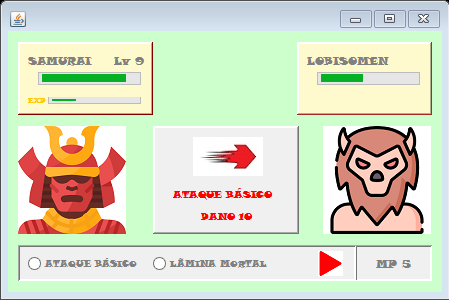
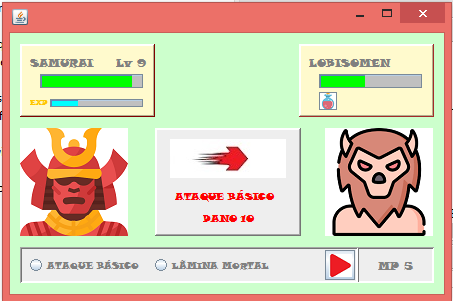
Criação da tela de escolha de personagem

diff --git a/src/Swing/Personagem.java b/src/Swing/Personagem.java
@@ -1,0 +1,192 @@
+package Swing;
+
+import java.awt.EventQueue;
+
+import javax.swing.JFrame;
+import javax.swing.JPanel;
+import javax.swing.border.EmptyBorder;
+import java.awt.Font;
+import javax.swing.JLabel;
+import java.awt.Color;
+import javax.swing.JComboBox;
+import javax.swing.SwingConstants;
+import javax.swing.ImageIcon;
+import javax.swing.border.LineBorder;
+import javax.swing.border.BevelBorder;
+import javax.swing.JButton;
+
+public class Personagem extends JFrame {
+
+	private JPanel contentPane;
+
+	/**
+	 * Launch the application.
+	 */
+	public static void main(String[] args) {
+		EventQueue.invokeLater(new Runnable() {
+			public void run() {
+				try {
+					Personagem frame = new Personagem();
+					frame.setVisible(true);
+				} catch (Exception e) {
+					e.printStackTrace();
+				}
+			}
+		});
+	}
+
+	/**
+	 * Create the frame.
+	 */
+	public Personagem() {
+		setFont(new Font("Snap ITC", Font.PLAIN, 12));
+		setResizable(false);
+		setDefaultCloseOperation(JFrame.EXIT_ON_CLOSE);
+		setBounds(100, 100, 450, 300);
+		contentPane = new JPanel();
+		contentPane.setBackground(new Color(204, 255, 204));
+		contentPane.setBorder(new EmptyBorder(5, 5, 5, 5));
+
+		setContentPane(contentPane);
+		contentPane.setLayout(null);
+		
+		JLabel lblNewLabel = new JLabel("SELEÇÃO DE PERSONAGEM");
+		lblNewLabel.setForeground(Color.GRAY);
+		lblNewLabel.setFont(new Font("Snap ITC", Font.PLAIN, 18));
+		lblNewLabel.setBounds(20, 14, 319, 14);
+		contentPane.add(lblNewLabel);
+		
+		JPanel panel = new JPanel();
+		panel.setBorder(new LineBorder(new Color(192, 192, 192), 3, true));
+		panel.setBounds(21, 53, 90, 90);
+		contentPane.add(panel);
+		panel.setLayout(null);
+		
+		JLabel lblNewLabel_2 = new JLabel("");
+		lblNewLabel_2.setToolTipText("SAMURAI");
+		lblNewLabel_2.setIcon(new ImageIcon("C:\\RPG---Equipe2\\src\\Img\\escolhaSamurai.png"));
+		lblNewLabel_2.setBounds(5, 5, 80, 80);
+		panel.add(lblNewLabel_2);
+		
+		JPanel panel_1 = new JPanel();
+		panel_1.setBorder(new LineBorder(new Color(192, 192, 192), 3, true));
+		panel_1.setBounds(21, 154, 90, 90);
+		contentPane.add(panel_1);
+		panel_1.setLayout(null);
+		
+		JLabel lblNewLabel_2_2 = new JLabel("");
+		lblNewLabel_2_2.setToolTipText("CAVALEIRO");
+		lblNewLabel_2_2.setIcon(new ImageIcon("C:\\RPG---Equipe2\\src\\Img\\escolhaCavaleiro.png"));
+		lblNewLabel_2_2.setBounds(5, 5, 80, 80);
+		panel_1.add(lblNewLabel_2_2);
+		
+		JPanel panel_2 = new JPanel();
+		panel_2.setBorder(new LineBorder(new Color(192, 192, 192), 3, true));
+		panel_2.setBounds(121, 53, 90, 90);
+		contentPane.add(panel_2);
+		panel_2.setLayout(null);
+		
+		JLabel lblNewLabel_2_1 = new JLabel("");
+		lblNewLabel_2_1.setToolTipText("MONGE");
+		lblNewLabel_2_1.setIcon(new ImageIcon("C:\\RPG---Equipe2\\src\\Img\\escolhaMonge.png"));
+		lblNewLabel_2_1.setBounds(5, 5, 80, 80);
+		panel_2.add(lblNewLabel_2_1);
+		
+		JPanel panel_1_1 = new JPanel();
+		panel_1_1.setBorder(new LineBorder(new Color(192, 192, 192), 3, true));
+		panel_1_1.setBounds(121, 154, 90, 90);
+		contentPane.add(panel_1_1);
+		panel_1_1.setLayout(null);
+		
+		JLabel lblNewLabel_2_3 = new JLabel("");
+		lblNewLabel_2_3.setToolTipText("CAÇADOR");
+		lblNewLabel_2_3.setIcon(new ImageIcon("C:\\RPG---Equipe2\\src\\Img\\escolhaCacador.png"));
+		lblNewLabel_2_3.setHorizontalAlignment(SwingConstants.CENTER);
+		lblNewLabel_2_3.setBounds(5, 5, 78, 78);
+		panel_1_1.add(lblNewLabel_2_3);
+		
+		JPanel panel_3 = new JPanel();
+		panel_3.setBorder(new BevelBorder(BevelBorder.RAISED, null, null, null, null));
+		panel_3.setBounds(249, 55, 160, 186);
+		contentPane.add(panel_3);
+		panel_3.setLayout(null);
+		
+		JLabel lblNewLabel_1 = new JLabel("PERSONAGEM");
+		lblNewLabel_1.setBounds(10, 6, 140, 15);
+		panel_3.add(lblNewLabel_1);
+		lblNewLabel_1.setForeground(Color.GRAY);
+		lblNewLabel_1.setFont(new Font("Snap ITC", Font.PLAIN, 12));
+		
+		JLabel lblNewLabel_1_1 = new JLabel("VIDA");
+		lblNewLabel_1_1.setBounds(10, 39, 54, 14);
+		panel_3.add(lblNewLabel_1_1);
+		lblNewLabel_1_1.setForeground(Color.GRAY);
+		lblNewLabel_1_1.setFont(new Font("Snap ITC", Font.PLAIN, 12));
+		
+		JLabel lblNewLabel_3 = new JLabel("SAMURAI");
+		lblNewLabel_3.setForeground(Color.ORANGE);
+		lblNewLabel_3.setFont(new Font("Snap ITC", Font.PLAIN, 12));
+		lblNewLabel_3.setBounds(10, 19, 140, 14);
+		panel_3.add(lblNewLabel_3);
+		
+		JLabel lblNewLabel_3_1 = new JLabel("110");
+		lblNewLabel_3_1.setForeground(Color.ORANGE);
+		lblNewLabel_3_1.setFont(new Font("Snap ITC", Font.PLAIN, 12));
+		lblNewLabel_3_1.setBounds(10, 52, 54, 14);
+		panel_3.add(lblNewLabel_3_1);
+		
+		JLabel lblNewLabel_1_2 = new JLabel("ATAQUE BÁSICO");
+		lblNewLabel_1_2.setForeground(Color.GRAY);
+		lblNewLabel_1_2.setFont(new Font("Snap ITC", Font.PLAIN, 12));
+		lblNewLabel_1_2.setBounds(10, 72, 150, 14);
+		panel_3.add(lblNewLabel_1_2);
+		
+		JLabel lblNewLabel_3_2 = new JLabel("9");
+		lblNewLabel_3_2.setForeground(Color.ORANGE);
+		lblNewLabel_3_2.setFont(new Font("Snap ITC", Font.PLAIN, 12));
+		lblNewLabel_3_2.setBounds(10, 85, 140, 14);
+		panel_3.add(lblNewLabel_3_2);
+		
+		JLabel lblNewLabel_1_1_1 = new JLabel("ATAQUE ESPECIAL");
+		lblNewLabel_1_1_1.setForeground(Color.GRAY);
+		lblNewLabel_1_1_1.setFont(new Font("Snap ITC", Font.PLAIN, 12));
+		lblNewLabel_1_1_1.setBounds(10, 105, 150, 14);
+		panel_3.add(lblNewLabel_1_1_1);
+		
+		JLabel lblNewLabel_3_1_1 = new JLabel("LÂMINA MORTAL");
+		lblNewLabel_3_1_1.setForeground(Color.ORANGE);
+		lblNewLabel_3_1_1.setFont(new Font("Snap ITC", Font.PLAIN, 12));
+		lblNewLabel_3_1_1.setBounds(10, 118, 140, 14);
+		panel_3.add(lblNewLabel_3_1_1);
+		
+		JLabel lblNewLabel_1_1_2 = new JLabel("MP");
+		lblNewLabel_1_1_2.setForeground(Color.GRAY);
+		lblNewLabel_1_1_2.setFont(new Font("Snap ITC", Font.PLAIN, 12));
+		lblNewLabel_1_1_2.setBounds(105, 39, 37, 14);
+		panel_3.add(lblNewLabel_1_1_2);
+		
+		JLabel lblNewLabel_3_1_2 = new JLabel("20");
+		lblNewLabel_3_1_2.setForeground(Color.ORANGE);
+		lblNewLabel_3_1_2.setFont(new Font("Snap ITC", Font.PLAIN, 12));
+		lblNewLabel_3_1_2.setBounds(105, 52, 37, 14);
+		panel_3.add(lblNewLabel_3_1_2);
+		
+		JLabel lblNewLabel_3_1_1_1 = new JLabel("18");
+		lblNewLabel_3_1_1_1.setForeground(Color.ORANGE);
+		lblNewLabel_3_1_1_1.setFont(new Font("Snap ITC", Font.PLAIN, 12));
+		lblNewLabel_3_1_1_1.setBounds(10, 131, 140, 14);
+		panel_3.add(lblNewLabel_3_1_1_1);
+		
+		JLabel lblNewLabel_1_3 = new JLabel("EFEITO");
+		lblNewLabel_1_3.setForeground(Color.GRAY);
+		lblNewLabel_1_3.setFont(new Font("Snap ITC", Font.PLAIN, 12));
+		lblNewLabel_1_3.setBounds(10, 151, 140, 15);
+		panel_3.add(lblNewLabel_1_3);
+		
+		JLabel lblNewLabel_3_3 = new JLabel("SANGRAMENTO");
+		lblNewLabel_3_3.setForeground(Color.ORANGE);
+		lblNewLabel_3_3.setFont(new Font("Snap ITC", Font.PLAIN, 12));
+		lblNewLabel_3_3.setBounds(10, 164, 140, 14);
+		panel_3.add(lblNewLabel_3_3);
+	}
+}

diff --git a/src/Swing/Tela.java b/src/Swing/Tela.java
@@ -20,6 +20,7 @@ import javax.swing.JRadioButton;
 import javax.swing.JButton;
 import java.awt.Color;
 import javax.swing.UIManager;
+import java.awt.Window.Type;
 
 public class Tela extends JFrame {
 
@@ -45,6 +46,7 @@ public class Tela extends JFrame {
 	 * Create the frame.
 	 */
 	public Tela() {
+		setResizable(false);
 		setDefaultCloseOperation(JFrame.EXIT_ON_CLOSE);
 		setBounds(100, 100, 450, 300);
 		contentPane = new JPanel();
@@ -152,7 +154,7 @@ public class Tela extends JFrame {
 		JButton btnNewButton_1 = new JButton("");
 		btnNewButton_1.setToolTipText("Atacar");
 		btnNewButton_1.setIcon(new ImageIcon("C:\\RPG---Equipe2\\src\\Img\\playIcon2.png"));
-		btnNewButton_1.setBounds(305, 5, 26, 26);
+		btnNewButton_1.setBounds(305, 3, 30, 30);
 		panel_2.add(btnNewButton_1);
 		
 		JPanel panel_2_1 = new JPanel();
